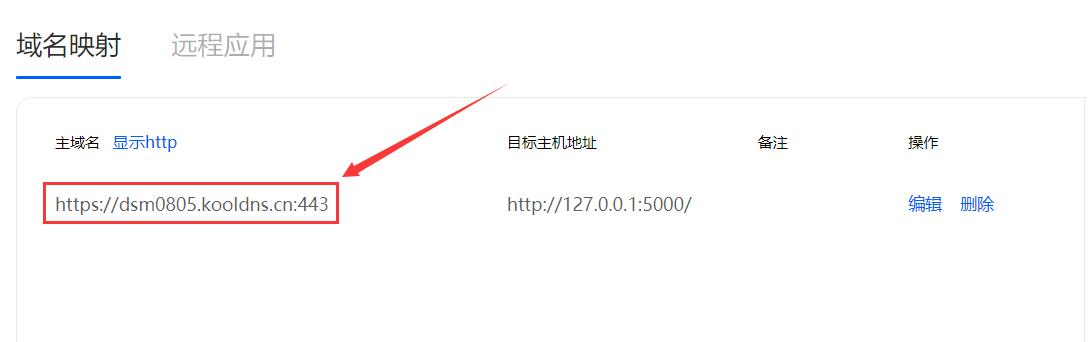
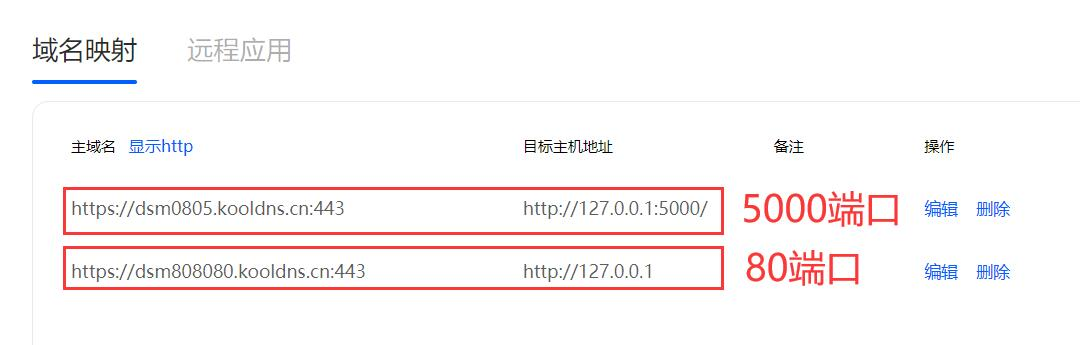
synology app: Optimization tutorial

diff --git a/docs/zh/guide/synology.md b/docs/zh/guide/synology.md
@@ -5,20 +5,23 @@
 
 众所周知，ddnsto远程穿透超级简单，4M带宽足够使用，于是就有朋友想着利用ddnsto支持群晖App。
 
-**1.先说前提，群晖设备已经配置好ddnsto穿透，前面详细教程有说到，群晖设置ddnsto要配置端口，才能正常访问。**
 
-   ![synology](./synology/synology-1.jpg)
 
-**2.接下来开始准备工作，如图我的ddnsto群晖域名是 https://dsm0805.kooldns.cn:443 ，将这段 dsm0805.kooldns.cn 复制(就是去掉完整域名前面的https://和尾部的端口)。**
+## 准备工作
 
-**3.ddnsto身份验证：**
+**1.群晖设备已经配置好ddnsto穿透，前面详细教程有说到，已经配置了5000，能正常访问。现在新增一个80端口的配置(因为DS photo的App用的80端口)。**
+
+   ![synology](./synology/synology-1.jpg) 
+  
+**2.ddnsto身份验证：**
 
 A：如果是在外网(指不是和群晖设备在同一局域网或者蜂窝数据下)，需要浏览器打开https://www.ddnsto.com/进入控制台，验证身份登录。
 
 B：如果和群晖在同一局域网下，不用验证ddnsto身份。
 
-**4.准备工作做完，就可以开始下面的教程远程穿透群晖App了。**
 
+
+## 开始穿透
 
 ### Synology Drive
 
@@ -26,7 +29,7 @@ B：如果和群晖在同一局域网下，不用验证ddnsto身份。
 
    ![synology](./synology/synology-2.jpg)
    
-然后下载安装Synology Drive的App，打开App，地址栏填入之前复制的dsm0805.kooldns.cn，帐号和密码均为群晖登录帐号和密码，不勾选HTTPS，登录就ok。   
+然后下载安装Synology Drive的App，打开App，地址栏填入5000端口的ddnsto域名(去掉https://和尾部端口)：dsm0805.kooldns.cn，帐号和密码均为群晖登录帐号和密码，不勾选HTTPS，登录就ok。   
 
    ![synology](./synology/synology-3.jpg)
    
@@ -37,7 +40,7 @@ B：如果和群晖在同一局域网下，不用验证ddnsto身份。
 
    ![synology](./synology/synology-4.jpg)
    
-然后下载安装Synology Photos的App，打开App，地址栏填入之前复制的dsm0805.kooldns.cn，帐号和密码均为群晖登录帐号和密码，不勾选HTTPS，登录就ok。   
+然后下载安装Synology Photos的App，打开App，地址栏填入5000端口的ddnsto域名(去掉https://和尾部端口)：dsm0805.kooldns.cn，帐号和密码均为群晖登录帐号和密码，不勾选HTTPS，登录就ok。   
 
    ![synology](./synology/synology-5.jpg)   
    
@@ -48,7 +51,7 @@ B：如果和群晖在同一局域网下，不用验证ddnsto身份。
 
    ![synology](./synology/synology-6.jpg)
    
-然后下载安装DS file的App，打开App，地址栏填入之前复制的dsm0805.kooldns.cn，帐号和密码均为群晖登录帐号和密码，不勾选HTTPS，登录就ok。   
+然后下载安装DS file的App，打开App，地址栏填入5000端口的ddnsto域名(去掉https://和尾部端口)：dsm0805.kooldns.cn，帐号和密码均为群晖登录帐号和密码，不勾选HTTPS，登录就ok。   
 
    ![synology](./synology/synology-7.jpg) 
 
@@ -59,7 +62,7 @@ B：如果和群晖在同一局域网下，不用验证ddnsto身份。
 
    ![synology](./synology/synology-8.jpg)
    
-然后下载安装DS video的App，打开App，地址栏填入之前复制的dsm0805.kooldns.cn，帐号和密码均为群晖登录帐号和密码，不勾选HTTPS，登录就ok。   
+然后下载安装DS video的App，打开App，地址栏填入5000端口的ddnsto域名(去掉https://和尾部端口)：dsm0805.kooldns.cn，帐号和密码均为群晖登录帐号和密码，不勾选HTTPS，登录就ok。   
 
    ![synology](./synology/synology-9.jpg) 
    
@@ -70,7 +73,7 @@ B：如果和群晖在同一局域网下，不用验证ddnsto身份。
 
    ![synology](./synology/synology-10.jpg)
    
-然后下载安装DS audio的App，打开App，地址栏填入之前复制的dsm0805.kooldns.cn，帐号和密码均为群晖登录帐号和密码，不勾选HTTPS，登录就ok。   
+然后下载安装DS audio的App，打开App，地址栏填入5000端口的ddnsto域名(去掉https://和尾部端口)：dsm0805.kooldns.cn，帐号和密码均为群晖登录帐号和密码，不勾选HTTPS，登录就ok。   
 
    ![synology](./synology/synology-11.jpg)    
    
@@ -81,7 +84,7 @@ B：如果和群晖在同一局域网下，不用验证ddnsto身份。
 
    ![synology](./synology/synology-12.jpg)
    
-然后下载安装DS cam的App，打开App，地址栏填入之前复制的dsm0805.kooldns.cn，帐号和密码均为群晖登录帐号和密码，不勾选HTTPS，登录就ok。   
+然后下载安装DS cam的App，打开App，地址栏填入5000端口的ddnsto域名(去掉https://和尾部端口)：dsm0805.kooldns.cn，帐号和密码均为群晖登录帐号和密码，不勾选HTTPS，登录就ok。   
 
    ![synology](./synology/synology-13.jpg) 
 
@@ -92,7 +95,7 @@ B：如果和群晖在同一局域网下，不用验证ddnsto身份。
 
    ![synology](./synology/synology-14.jpg)
    
-然后下载安装DS note的App，打开App，地址栏填入之前复制的dsm0805.kooldns.cn，帐号和密码均为群晖登录帐号和密码，不勾选HTTPS，登录就ok。   
+然后下载安装DS note的App，打开App，地址栏填入5000端口的ddnsto域名(去掉https://和尾部端口)：dsm0805.kooldns.cn，帐号和密码均为群晖登录帐号和密码，不勾选HTTPS，登录就ok。   
 
    ![synology](./synology/synology-15.jpg) 
 
@@ -102,20 +105,8 @@ B：如果和群晖在同一局域网下，不用验证ddnsto身份。
 
    ![synology](./synology/synology-16.jpg)
  
-**因为Ds photo访问的http的80端口，所以有个特殊设置：**
+然后下载安装DS photo的App，打开App，地址栏填入80端口的ddnsto域名(去掉https://和尾部端口)+带上5000端口：dsm808080.kooldns.cn:5000，帐号和密码均为群晖登录帐号和密码，不勾选HTTPS，登录就ok。   
 
-进入ddnsto控制台，添加一个穿透设置，目前主机地址为你的群晖IP，不要写端口;
-
-PS：新增的ddnsto的域名不要带下划线等符号，如dsm_xyz，这种是不行的，DS photo不识别。只能纯数字字母组合。
-
-   ![synology](./synology/synology-17.jpg)  
- 
-然后切换ddnsto域名的https为http，复制地址：dsm808080.kooldns.cn:5000 (不要http://)。
- 
-   ![synology](./synology/synology-18.jpg)  
- 
-然后下载安装DS photo的App，打开App，地址栏填入刚刚复制的dsm808080.kooldns.cn:5000，帐号和密码均为群晖登录帐号和密码，不勾选HTTPS，登录就ok。   
-
-   ![synology](./synology/synology-19.jpg)   
+   ![synology](./synology/synology-17.jpg)   
    
    
